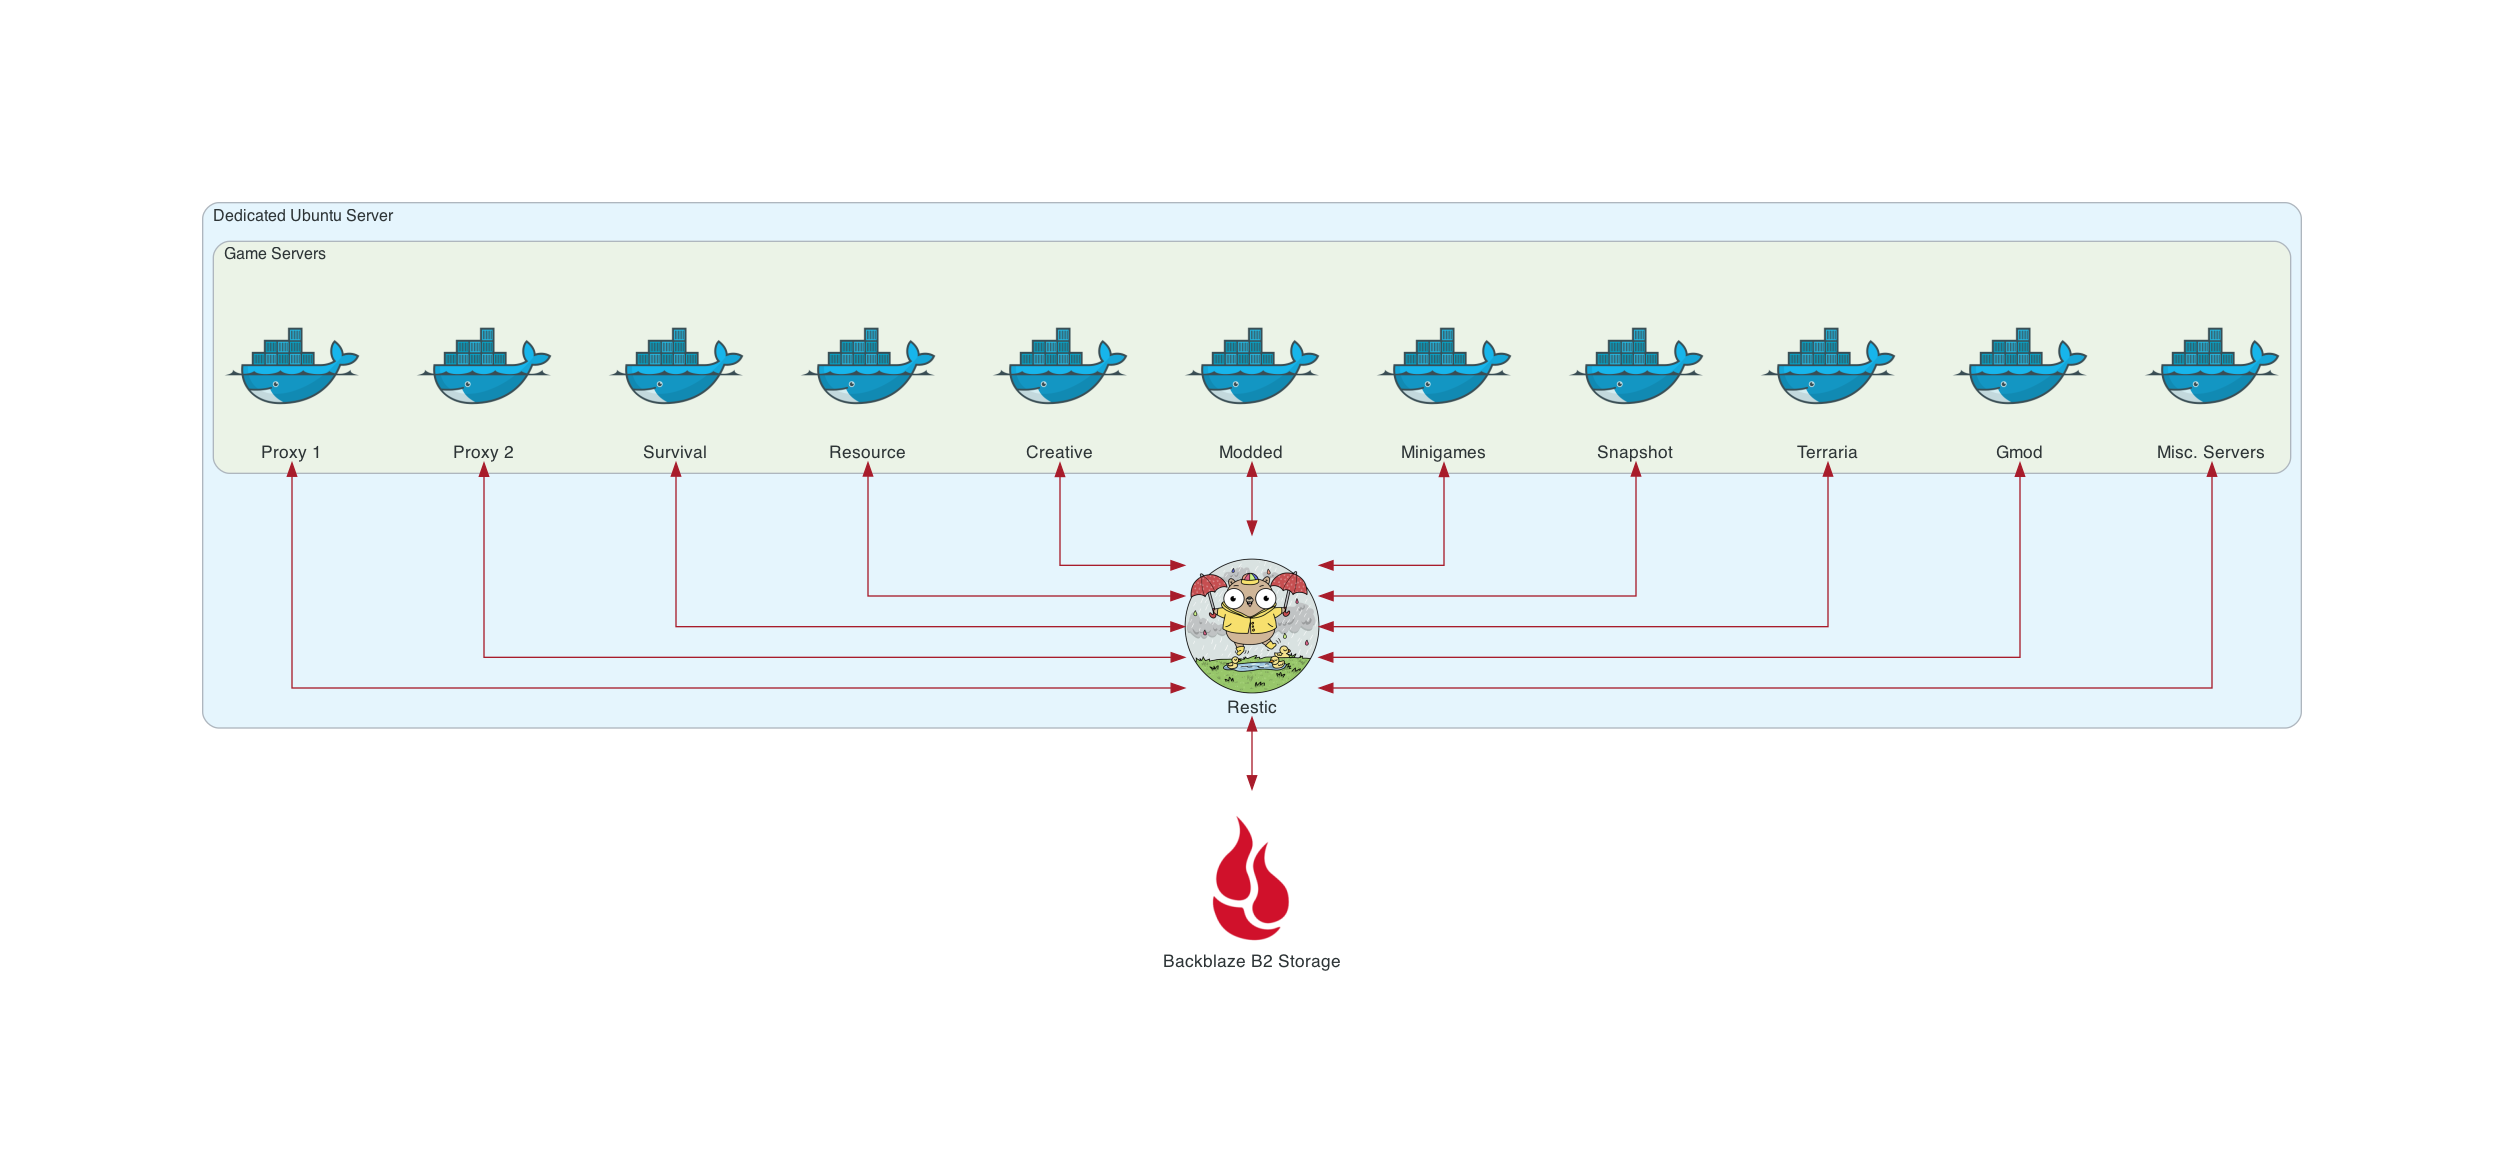
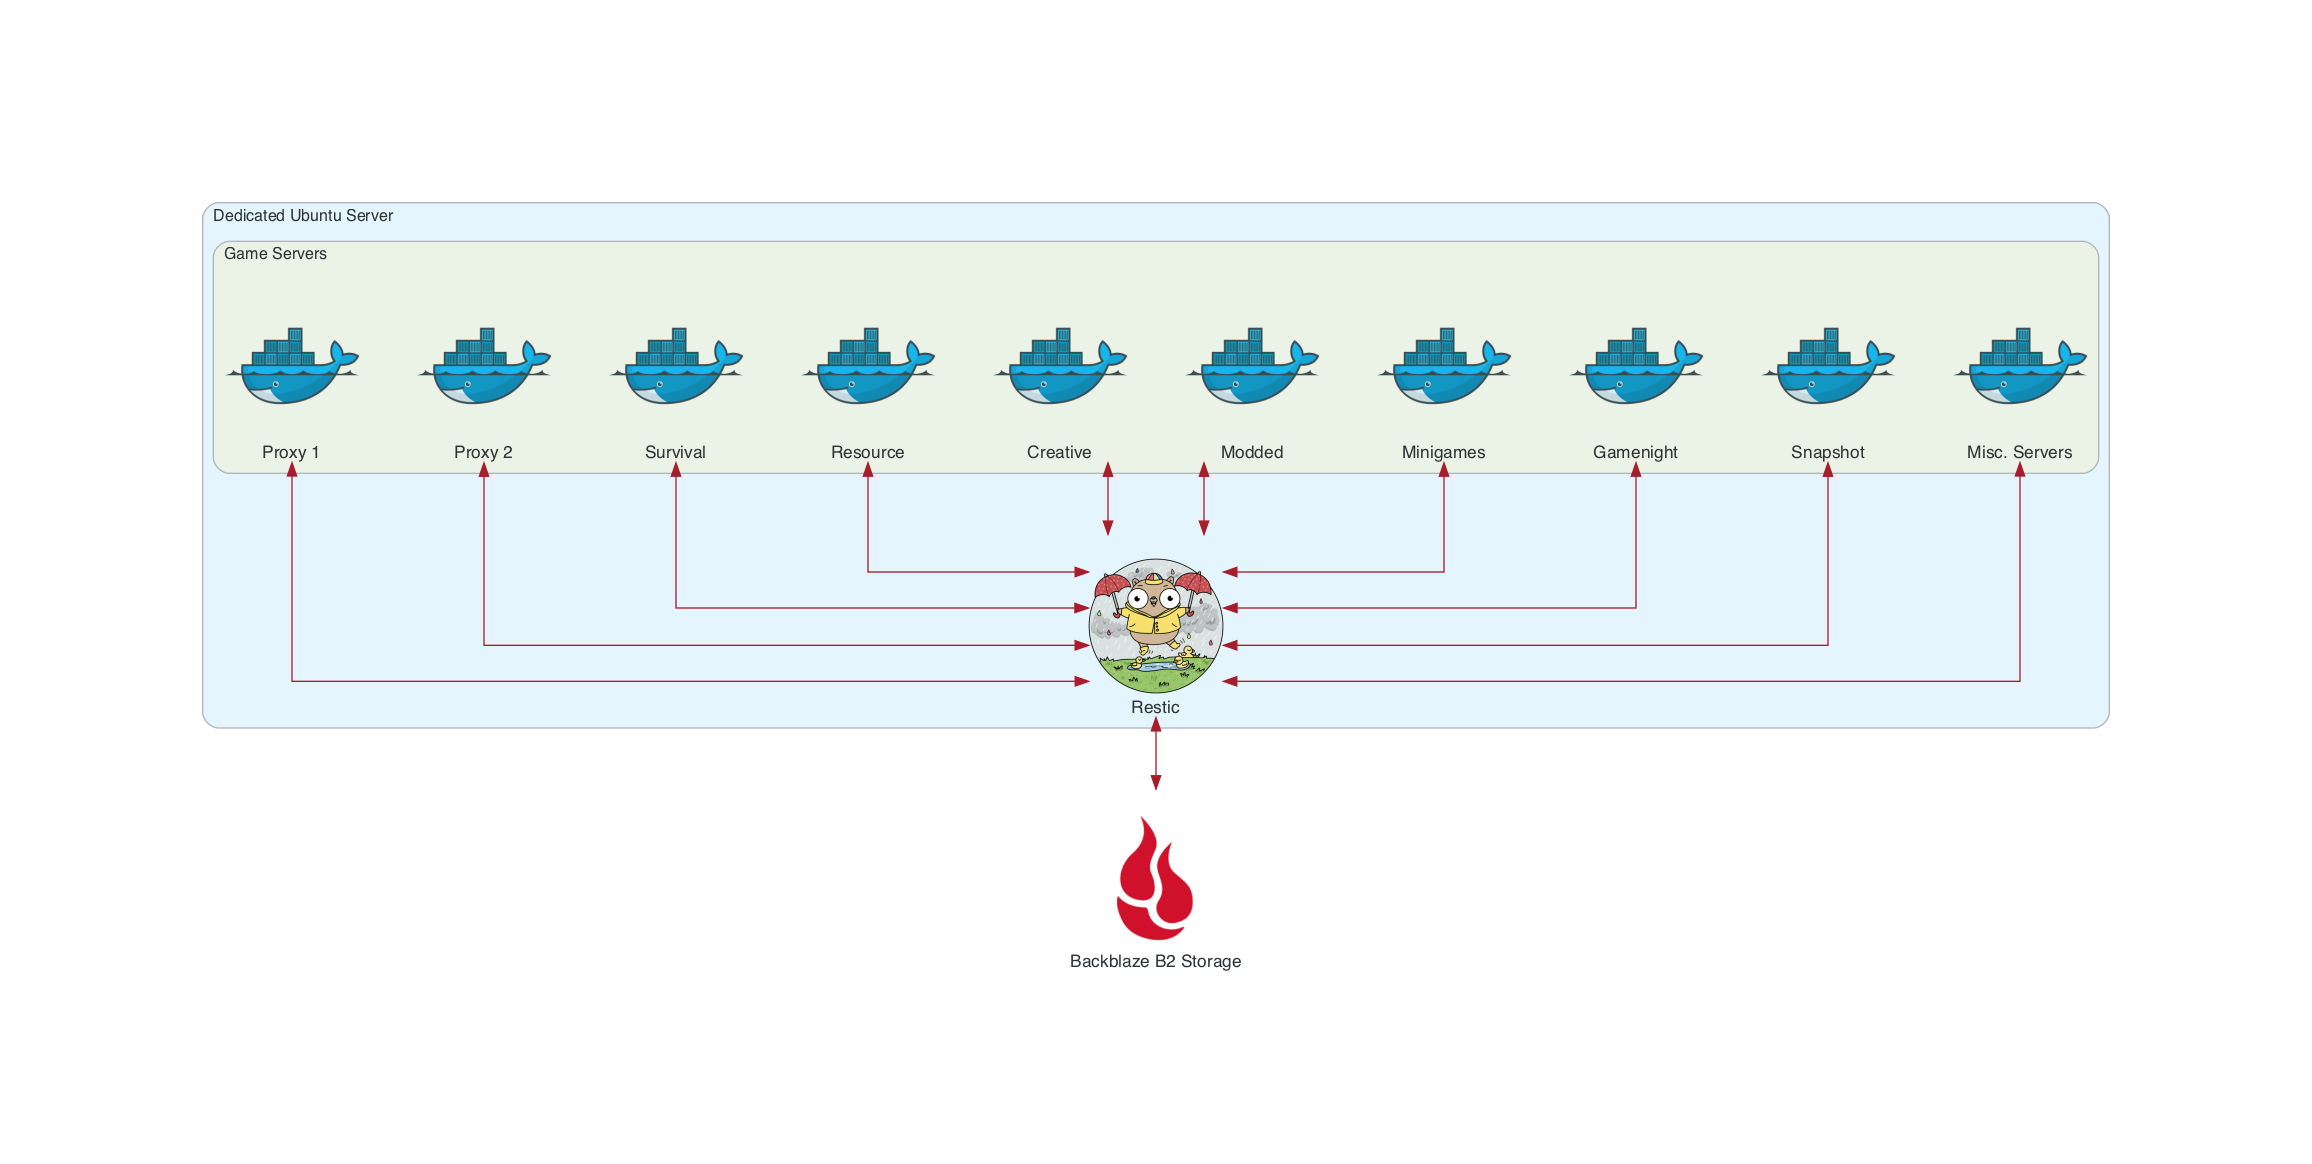
Update for Ionos

Changed region(s): [[0.0623, 0.1546, 0.9343, 0.6186], [0.1869, 0.4639, 0.8097, 0.6186], [0.4671, 0.8041, 0.5294, 0.8351]]

diff --git a/backups/restic_backblaze.py b/backups/restic_backblaze.py
@@ -29,14 +29,13 @@ with Diagram(filename="restic_backblaze", show=True, direction="TB"):
             creative = Docker("Creative")
             modded = Docker("Modded")
             minigames = Docker("Minigames")
-            gmod = Docker("Gmod")
             snapshot = Docker("Snapshot")
-            terraria = Docker("Terraria")
+            gamenight = Docker("Gamenight")
             misc = Docker("Misc. Servers")
 
         restic = Custom("Restic", restic_icon)
 
-        servers = [misc, gmod, terraria, snapshot, minigames, modded, creative, resource, survival, proxy2, proxy1]
+        servers = [misc, snapshot, gamenight, minigames, modded, creative, resource, survival, proxy2, proxy1]
 
         servers << Edge(color="#a81c2b") >> restic
         restic << Edge(color="#a81c2b") >> backblaze

diff --git a/game_servers/game_servers_ungrouped.py b/game_servers/game_servers_ungrouped.py
@@ -23,12 +23,11 @@ with Diagram(filename="game_servers_ungrouped", show=True, direction="TB"):
             creative = Docker("Creative")
             modded = Docker("Modded")
             minigames = Docker("Minigames")
-            gmod = Docker("Gmod")
+            gamenight = Docker("Gamenight")
             snapshot = Docker("Snapshot")
-            terraria = Docker("Terraria")
             misc = Docker("Misc. Servers")
 
-            servers = [misc, gmod, terraria, snapshot, minigames, modded, creative, resource, survival, proxy2, proxy1]
+            servers = [misc, snapshot, gamenight, minigames, modded, creative, resource, survival, proxy2, proxy1]
 
             pterodactyl >> Edge(color="#004da4") >> servers
            

diff --git a/dedicated/dedicated_server.py b/dedicated/dedicated_server.py
@@ -15,11 +15,10 @@ with Diagram(filename="dedicated_server", show=True, direction="TB"):
     with Cluster("Dedicated Ubuntu Server"):
 
         with Cluster("Other servers"):
-            gmod = Docker("Gmod")
-            snapshot = Docker("Snapshot")
-            terraria = Docker("Terraria")
             misc = Docker("Misc Servers")
-            nonbungee = [gmod, snapshot, terraria, misc]
+            snapshot = Docker("Snapshot")
+            gamenight = Docker("Gamenight")
+            nonbungee = [gamenight, snapshot, misc]
 
         with Cluster("Bungee Network 2"):
             proxy2 = Docker("Proxy 2")

diff --git a/game_servers/game_servers_grouped.py b/game_servers/game_servers_grouped.py
@@ -17,10 +17,9 @@ with Diagram(filename="game_servers_grouped", show=True, direction="TB"):
 
         with Cluster("Game Servers - Other servers"):
             misc = Docker("Misc. Servers")
-            gmod = Docker("Gmod")
-            terraria = Docker("Terraria")
             snapshot = Docker("Snapshot")
-            nonbungee = [misc, gmod, terraria, snapshot]
+            gamenight = Docker("Gamenight")
+            nonbungee = [misc, snapshot, gamenight]
 
         with Cluster("Game Servers - Bungee Network 2"):
             proxy2 = Docker("Proxy 2")

diff --git a/bots/bots.py b/bots/bots.py
@@ -23,6 +23,7 @@ with Diagram(filename="bots", show=True, direction="TB"):
             snackerinactivitybot = Docker("Snacker/Inactvity Bot")
             musicbot = Docker("Music Bot")
             chester = Docker("Chester")
+            ergobot = Docker("ErGoBot")
 
-        bots = [musicbot, playerlistbot, emojirolesbot, snackerinactivitybot, chester, modbot, applicationbot]
+        bots = [ergobot, musicbot, playerlistbot, emojirolesbot, snackerinactivitybot, chester, modbot, applicationbot]
         pterodactyl >> Edge(color="#004da4") >> bots
